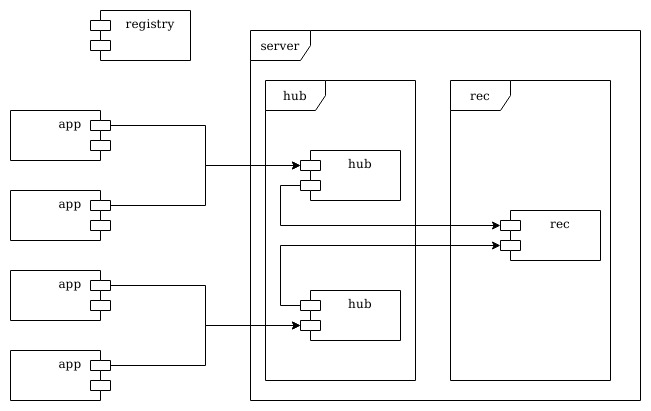
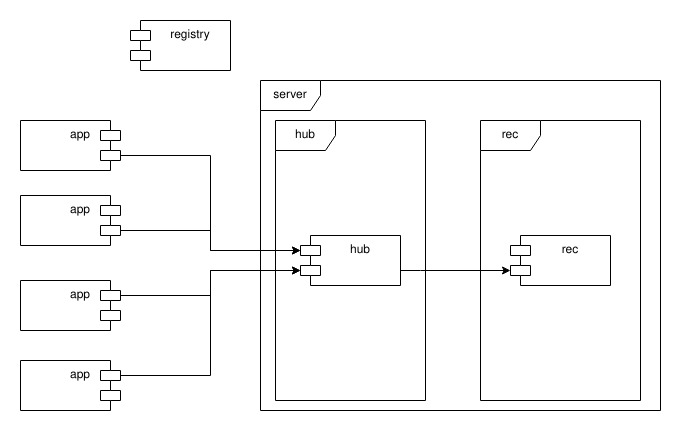
Part 1 clarifications: single hub, generic rec, ephemeral tags in app, face photo

diff --git a/part1.md b/part1.md
@@ -69,7 +69,7 @@ O prémio de devolução deve ser sempre positivo, para encorajar os utilizadore
 ------------------------
 
 A figura seguinte mostra uma visão global dos componentes da solução a construir.
-Podem existir várias aplicações móveis `app`, um ou mais `hub`, um `rec` (para já) e um serviço de nomes (*registry*).
+Podem existir várias aplicações móveis `app`, um `hub`, um `rec` (para já) e um serviço de nomes (*registry*).
 
 ![System](img/system1.jpg)
 
@@ -81,7 +81,7 @@ O `hub` contém apenas informação da aplicação que é **imutável**, ou seja
 O armazenamento de informação mutável é feito no `rec` (abreviatura de *record*).
 O `rec` oferece procedimentos remotos básicos de leitura/escrita de registos, em que cada registo tem um identificador único (textual, sem espaços) e um valor.
 
-Os `hub` e `rec` registam-se no *registry*, que é um **serviço de nomes**.
+O `hub` e `rec` registam-se no *registry*, que é um **serviço de nomes**.
 Apenas o endereço e porto do *registry* deve ser conhecido à partida.
 Todos os restantes nomes de máquinas e portos devem ser obtidos dinamicamente por consulta do *registry*.
 
@@ -129,8 +129,8 @@ O `hub-tester` deve ser desenvolvido para albergar *testes de integração* (IT 
 
 (*OPCIONAL*: este requisito só vai ser avaliado na segunda parte do projeto)
 
-Para tolerar faltas do `hub` devem existir várias cópias (chamadas *réplicas*) do servidor a correr ao mesmo tempo.
-Como o `hub` tem estado imutável, basta lançar mais uma instância, carregada com os mesmos dados.
+Para tolerar faltas do `hub` podem existir várias cópias (chamadas *réplicas*) do servidor, mas apenas uma vai estar ativa e registada no *registry* ao mesmo tempo.
+Como o `hub` tem estado imutável, para recuperar o servidor, basta lançar nova instância carregada com os mesmos dados.
 
 ### Argumentos
 
@@ -155,6 +155,9 @@ Isto permite distinguir quando se está a fazer o lançamento inicial ou quando 
 2.2 Servidor `rec`
 -----------------
 
+O `rec` deve ser independente do `hub` e poderá ser utilizado para suportar outras aplicações.
+Por outras palavras, o `rec` não deve conter lógica da aplicação.
+
 O `rec` deve disponibilizar os seguintes procedimentos remotos:
 
 - `read` -- recebe o nome do registo, e devolve o valor atual;
@@ -165,6 +168,8 @@ O `rec` deve disponibilizar os seguintes procedimentos remotos:
 
 Os registos são implicitamente criados da primeira vez que existe um acesso com o seu nome, seja uma escrita ou uma leitura.
 Quando um registo é criado por uma leitura, deve ser preenchido com um valor por omissão que simbolize *vazio*.
+
+Os registos poderão ser fortemente ou fracamente tipificados, ou seja, poderá existir um tipo de dados explícito para o registo, que depois é validado, ou, alternativamente, os registos terão um tipo genérico, cabendo depois à aplicação fazer as conversões e validações necessárias.
 
 ### Testes de integração
 
@@ -224,6 +229,7 @@ Carregar 15 Euros em *bicloins*:
     > top-up 15
     alice 150 BIC
 
+A aplicação permite a criação de etiquetas, que apenas existem durante a sessão onde são criadas.
 Criar uma etiqueta para coordenadas e depois usar a etiqueta para movimentações:
 
     > tag 38.7376 -9.3031 loc1
@@ -266,6 +272,10 @@ Devolver a bicicleta (é necessário estar próximo da estação):
     OK
 
 A regra para as mensagens de confirmação de comandos é começar a linha com `OK` ou `ERRO`, seguido de mais texto, sempre que seja útil, mas ocupando apenas uma linha de texto.
+
+Sair da aplicação:
+
+    > exit
 
 ### Redirecionamento de dados
 
@@ -326,7 +336,7 @@ o `hub`, `hub-tester`, `rec`, `rec-tester` e a `app`.
 5.1 Fotos
 ---------
 
-Cada membro da equipa tem que fornecer uma foto, com qualidade, tirada no último ano, para facilitar a identificação e comunicação.
+Cada membro da equipa tem que fornecer uma foto enquadrada no rosto, com qualidade, tirada no último ano, para facilitar a identificação e comunicação.
 A identificação e foto deve ser colocada na pasta `report/`.
 Como referência, pode ser consultado o [relatório de exemplo](report/README.md).
 Para esta primeira parte deve ser preenchida apenas a secção **Autores**.
